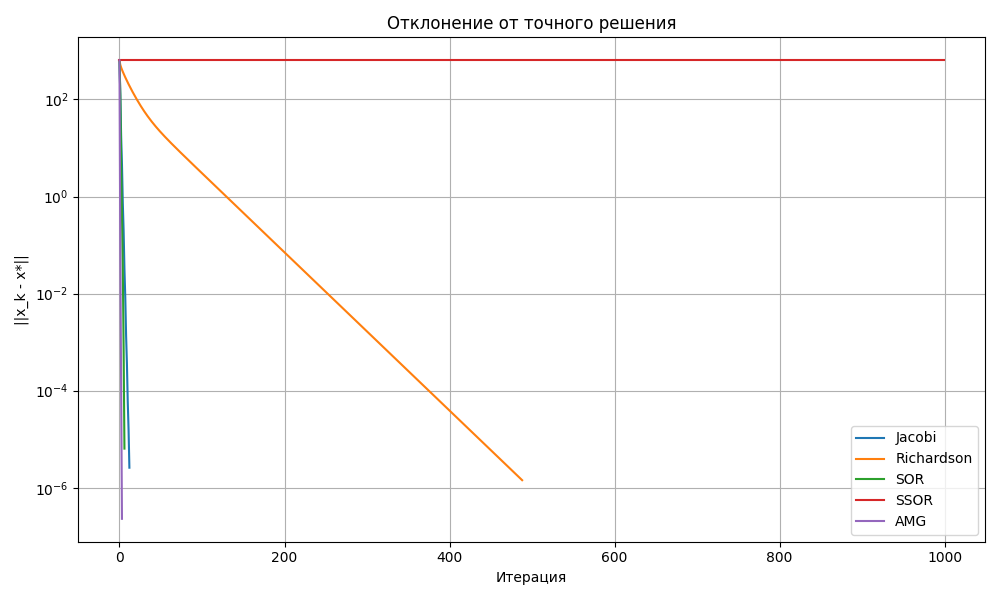
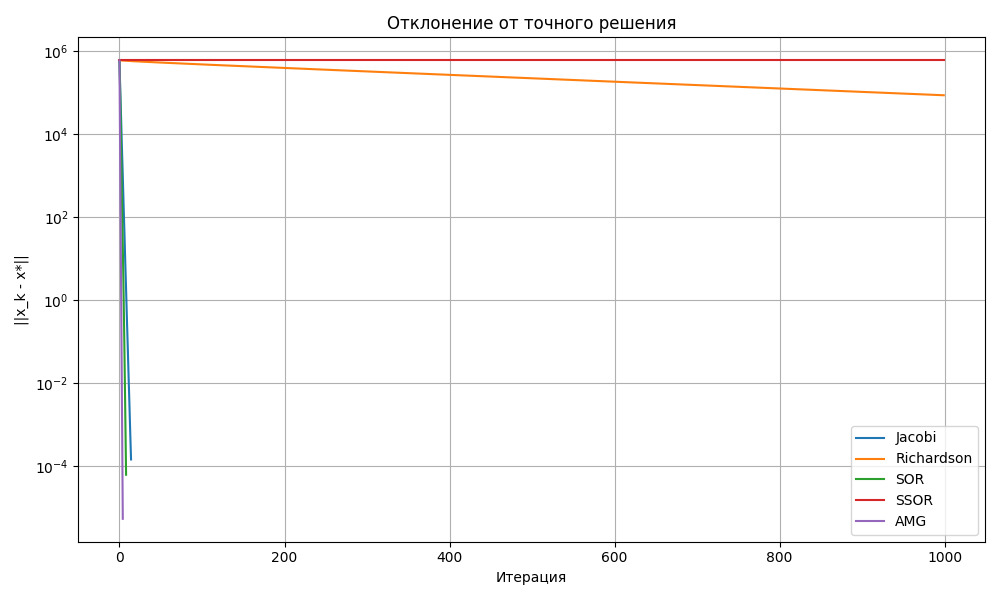
richardson preconditioned by L(A) matrix + tests to amg

diff --git a/amgTest.py b/amgTest.py
@@ -1,0 +1,41 @@
+import numpy as np
+from scipy import sparse
+from time import perf_counter
+
+
+from solvers.amg import two_level_amg
+
+from problems.cubic_spline import cubic_spline
+
+
+# Basic test. Generate matrix of fixed size & check converganse and error with correct solution 
+
+n = 1000
+smooth_iters = 3
+theta = 0.5
+repeats = 10
+
+A, b = cubic_spline(n + 1)
+x0 = np.random.rand(A.shape[0])
+
+# Точное решение
+correct_sol = sparse.linalg.spsolve(A, b)
+
+
+def measure_time(method_name, solver_fn, *args, **kwargs):
+    total_time = 0.0
+    total_error_norm = 0.0 
+    for _ in range(repeats):
+        start = perf_counter()
+        sol, _, _ = solver_fn(*args, **kwargs)
+        end = perf_counter()
+        total_time += (end - start)
+        diff_norm =+ np.linalg.norm(sol - correct_sol)
+    
+    avg_time = total_time / repeats
+    total_error_norm = diff_norm / repeats
+    print(f"[{method_name:<10}] Среднее время: {avg_time:.6f} сек, средняя ошибка {total_error_norm:.16f}")
+    
+    
+measure_time("AMG", two_level_amg, A, b, x0, smooth_iters, theta)
+

diff --git a/solvers/richardson_L_precond.py b/solvers/richardson_L_precond.py
@@ -1,0 +1,37 @@
+import numpy as np
+from scipy import sparse
+
+from scipy.sparse.linalg import eigsh
+
+
+def simple_iteration_solver_L_precond(
+    A: sparse.spmatrix, 
+    b: np.ndarray,
+    x0: np.ndarray,       # initial solution vector
+    omega: float = 1,         # regulirization param
+    tol: float = 1e-6,           # absolute tolerance
+    maxiter: int = 10000  # maximal iteration count
+):
+    # Not optimal
+    lambda_max = eigsh(A, k=1, which='LA', return_eigenvectors=False)[0]
+    lambda_min = eigsh(A, k=1, which='SA', return_eigenvectors=False)[0]
+    tau = 2.0 / (lambda_min + lambda_max)
+    
+    M = np.tril(A.toarray())
+        
+    x = x0.astype(float).copy()
+    
+    for iteration in range(maxiter):
+        r = A.dot(x) - b
+        z = np.linalg.solve(M, r)
+        res_norm = np.linalg.norm(r)
+
+        if res_norm < tol:
+            return x, iteration, res_norm
+
+        x = x - tau * z
+    
+    # if method does not converge return last solution approxiamtion    
+    res_norm = np.linalg.norm(b - A.dot(x))
+    return x, -1, res_norm
+    

diff --git a/basic_test.py b/basic_test.py
@@ -2,6 +2,7 @@ import numpy as np
 from scipy import sparse
 
 from solvers.richardson import simple_iteration_solver
+from solvers.richardson_L_precond import simple_iteration_solver_L_precond
 from solvers.jacobi import jacobi_solver
 from solvers.sor import sor_solver
 from solvers.ssor import ssor_solver
@@ -13,7 +14,7 @@ from problems.cubic_spline import cubic_spline
 
 # Basic test. Generate matrix of fixed size & check converganse and error with correct solution 
 
-n = 10000
+n = 1000
 # A, b = generate_spd_matrix(n)
 # b = np.random.rand(n)
 A, b = cubic_spline(n + 1)
@@ -32,6 +33,7 @@ def print_result(name, sol, iters, res, correct_sol):
 
 
 print_result("Richardson", *simple_iteration_solver(A, b, x0), correct_sol)
+print_result("Richardson Precond", *simple_iteration_solver_L_precond(A, b, x0), correct_sol)
 print_result("Jacobi",     *jacobi_solver(A, b, x0), correct_sol)
 print_result("SOR",        *sor_solver(A, b, x0), correct_sol)
 print_result("SSOR",       *ssor_solver(A, b, x0), correct_sol)

diff --git a/laplase_test.py b/laplase_test.py
@@ -2,6 +2,7 @@ import numpy as np
 from scipy import sparse
 
 from solvers.richardson import simple_iteration_solver
+from solvers.richardson_L_precond import simple_iteration_solver_L_precond
 from solvers.jacobi import jacobi_solver
 from solvers.sor import sor_solver
 from solvers.ssor import ssor_solver
@@ -31,7 +32,8 @@ def print_result(name, sol, iters, res, correct_sol):
         print(f"[{name:<10}] Итераций: {iters:4d}, ||x - x*|| = {diff_norm:.2e}, остаток = {res:.2e}")
 
 # Turned off for laplace problem
-# print_result("Richardson", *simple_iteration_solver(A, b, x0), correct_sol)
+print_result("Richardson", *simple_iteration_solver(A, b, x0), correct_sol)
+print_result("Richardson Precond", *simple_iteration_solver_L_precond(A, b, x0), correct_sol)
 
 print_result("Jacobi",     *jacobi_solver(A, b, x0), correct_sol)
 print_result("SOR",        *sor_solver(A, b, x0), correct_sol)
